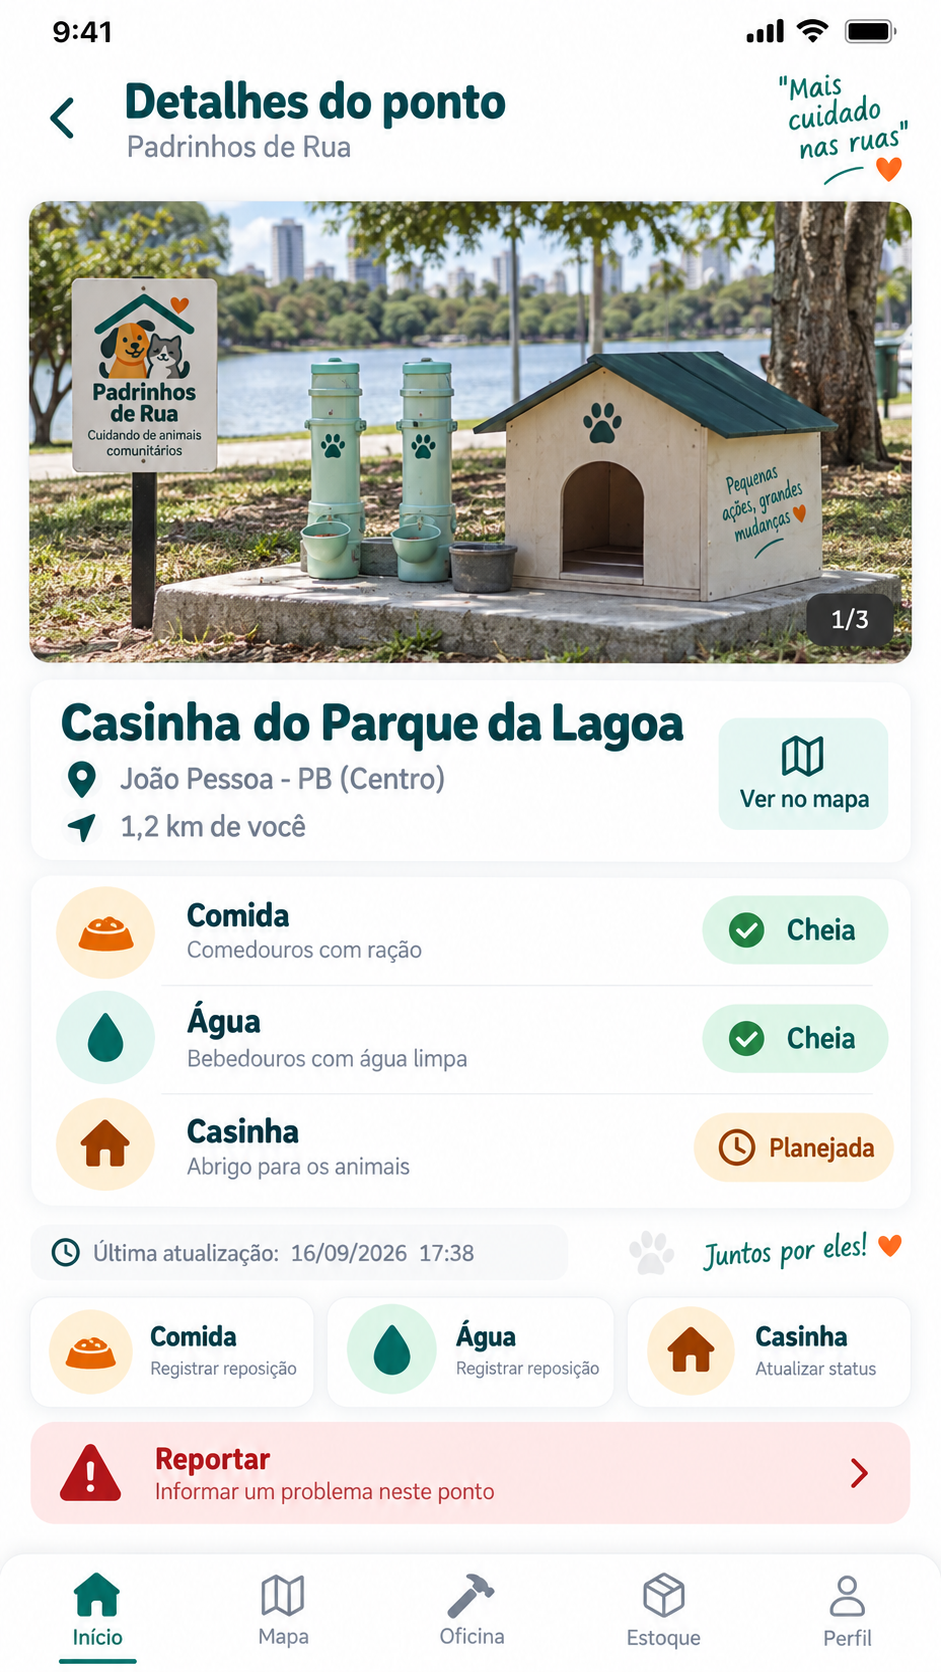
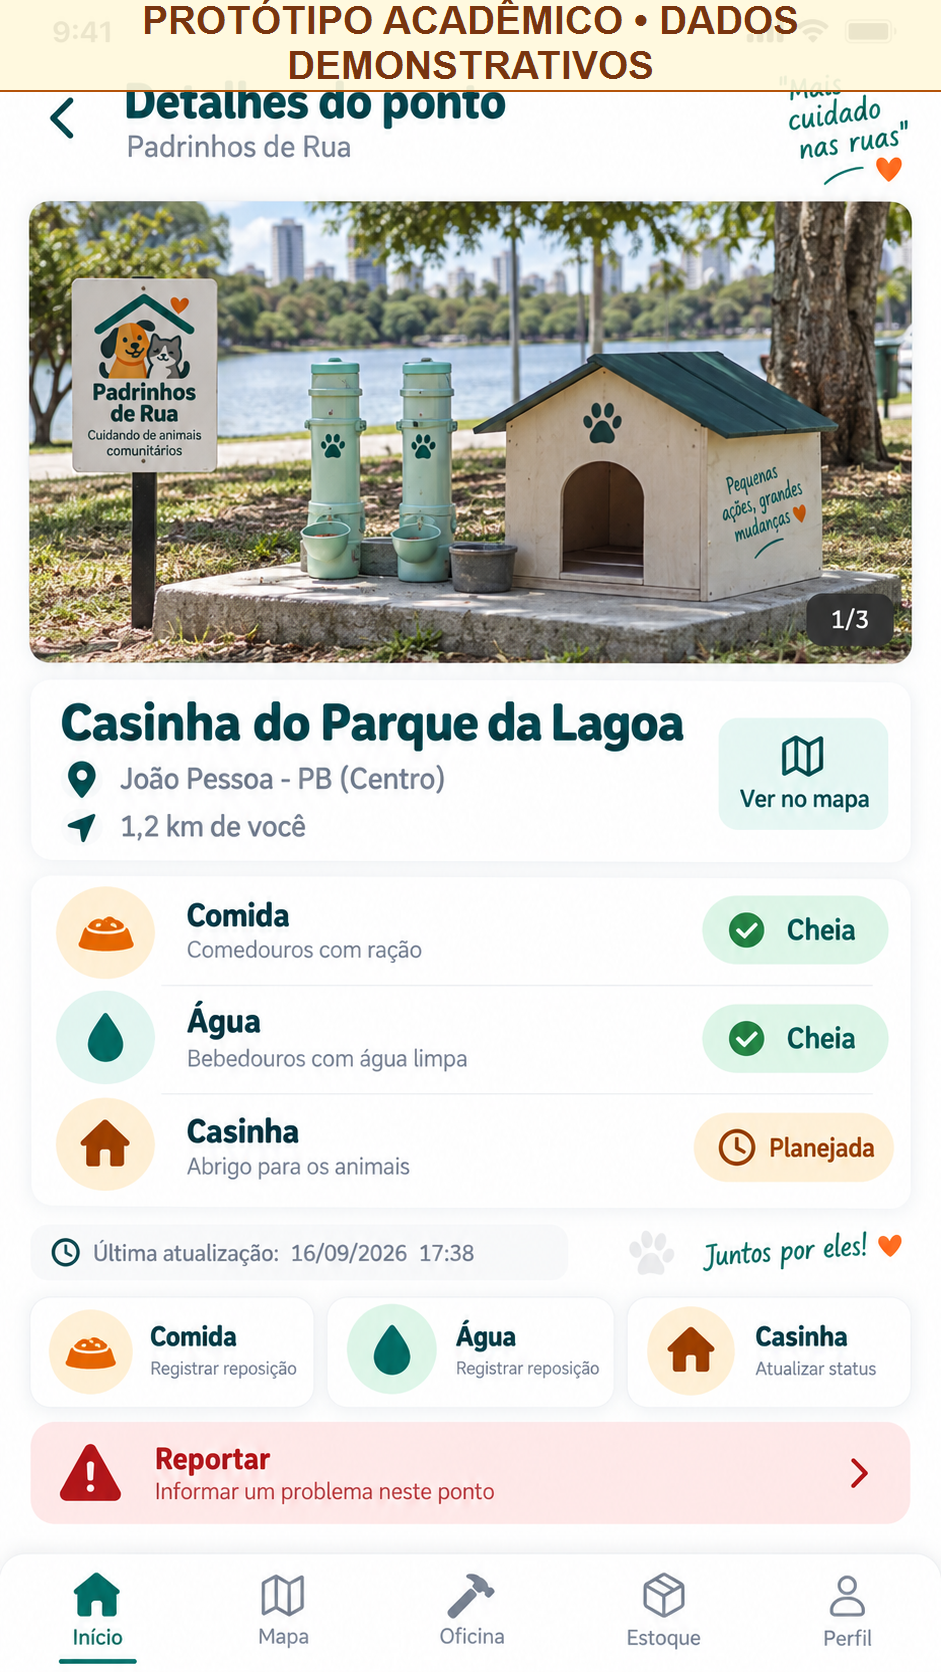
Finaliza revisão acadêmica dos protótipos do Padrinhos de Rua

Changed region(s): [[0.0, 0.0, 1.0, 0.0622]]

diff --git a/docs/STATUS_CONCLUSAO.md b/docs/STATUS_CONCLUSAO.md
@@ -1,0 +1,51 @@
+# Status de conclusão — Padrinhos de Rua
+
+**Revisão:** setembro de 2026  
+**Escopo:** projeto extensionista acadêmico / MVP de prototipação
+
+## Situação do projeto
+
+O Padrinhos de Rua está consolidado como um MVP acadêmico voltado à organização comunitária de pontos de apoio animal.
+
+Nesta fase:
+
+- **0 casinhas estão instaladas**;
+- a meta de **até 10 casinhas** representa planejamento de um possível piloto;
+- pontos, estoques, contribuições e movimentações usados na interface podem ser demonstrativos;
+- o MVP não registra parceria institucional, instalação física ou atendimento real;
+- o mapa cartográfico real, autenticação, banco compartilhado e integrações externas permanecem como possibilidades futuras;
+- a implantação física depende de validação de campo, autorização, recursos e responsáveis pela continuidade.
+
+## O que está concluído dentro do escopo acadêmico
+
+- definição do problema e da proposta;
+- requisitos e regras de negócio;
+- modelo de dados proposto;
+- análise de privacidade e segurança;
+- análise de operação e manutenção;
+- análise de impacto, riscos, prós e contras;
+- viabilidade financeira do piloto;
+- indicadores e critérios de validação;
+- documentação acadêmica consolidada;
+- MVP/PWA demonstrativo;
+- 11 telas de prototipação;
+- separação entre dados reais, planejados e demonstrativos;
+- validação automatizada de coerência no repositório;
+- CI acadêmica para TypeScript/build/validação.
+
+## Pendências que não impedem o fechamento desta etapa
+
+### Figma / protótipo clicável
+Reproduzir ou atualizar as telas no Figma e conectá-las em uma jornada clicável. Esta etapa melhora a apresentação de UX/UI, mas não exige transformar o projeto em aplicativo de produção.
+
+### Validação comunitária
+Testes com voluntários, cuidadores ou responsáveis reais deverão ser tratados como etapa futura enquanto não houver atividade de campo documentada.
+
+### Implantação física
+Cotações reais, autorização dos locais, montagem, instalação e acompanhamento das casinhas pertencem a uma eventual fase piloto posterior.
+
+## Critério de leitura
+
+O projeto não deve ser avaliado como um serviço já implantado. O objetivo desta etapa é demonstrar a análise do problema, o desenho da solução, a prototipação, a organização tecnológica e a preparação responsável para uma eventual validação futura.
+
+**Conclusão:** dentro do escopo definido — projeto acadêmico com documentação, MVP demonstrativo e prototipação — o trabalho está em fase de fechamento. O Figma clicável é a principal entrega visual ainda recomendada.

diff --git a/prototipos/README.md b/prototipos/README.md
@@ -1,4 +1,4 @@
-# Organização recomendada dos protótipos
+# Protótipos — Padrinhos de Rua
 
 O repositório original possui 11 telas mobile em PNG. A revisão recomenda apresentá-las como uma jornada, e não como imagens isoladas.
 
@@ -25,12 +25,13 @@ Cada tela deve indicar se é:
 - **implementação parcial**;
 - **evolução futura**.
 
-## Ajustes necessários nas telas antigas
+## Identificação das telas
 
-Como nenhuma casinha foi instalada, qualquer tela que mostre casas prontas/instaladas ou contribuições reais deve receber uma marca clara de **DADOS DEMONSTRATIVOS** ou ser atualizada para refletir planejamento.
+As 11 imagens desta pasta são **protótipos acadêmicos**. Para evitar que números, locais, contribuições, estoque ou situações simuladas sejam interpretados como operação real, as telas receberam identificação visual de **DADOS DEMONSTRATIVOS**.
 
-Também é recomendado substituir nomes de parceiros fictícios por rótulos genéricos e evitar endereços que pareçam pontos oficialmente autorizados.
+A aplicação atual é a referência funcional de estado do MVP. As imagens registram a evolução visual do projeto e não substituem os critérios de validação definidos na documentação.
 
 ## Figma
 
 Ao criar/atualizar o arquivo de alta fidelidade, manter a mesma navegação do MVP e incluir um pequeno componente visual de “Modo demonstrativo” nas telas que usam exemplos fictícios.
+

diff --git a/docs/README.md b/docs/README.md
@@ -1,4 +1,4 @@
-# Documentação do Padrinhos de Rua
+# Documentação do Padrinhos de Rua
 
 Esta pasta reúne a documentação acadêmica e técnica do projeto extensionista. O documento principal é o **Relatório Acadêmico Consolidado**; os demais arquivos detalham partes específicas sem substituir o relatório.
 
@@ -24,7 +24,9 @@ Esta pasta reúne a documentação acadêmica e técnica do projeto extensionist
 - `ROTEIRO_VIDEO_DEMONSTRACAO.md` - roteiro acadêmico para demonstração em vídeo.
 - `LIMPEZA_E_REAPROVEITAMENTO_CODIGO.md` - decisões de simplificação do MVP.
 - `HISTORICO_AJUSTES.md` - histórico das correções consolidadas.
+- `STATUS_CONCLUSAO.md` - situação de fechamento do MVP acadêmico e pendências futuras.
 
 ## Estado de referência
 
 Na versão consolidada de setembro de 2026, o projeto registra **0 casinhas instaladas** e uma meta piloto de **até 10**, condicionada a validação, materiais, segurança, responsáveis e autorização. Dados usados para demonstrar o MVP não compõem resultados reais.
+
